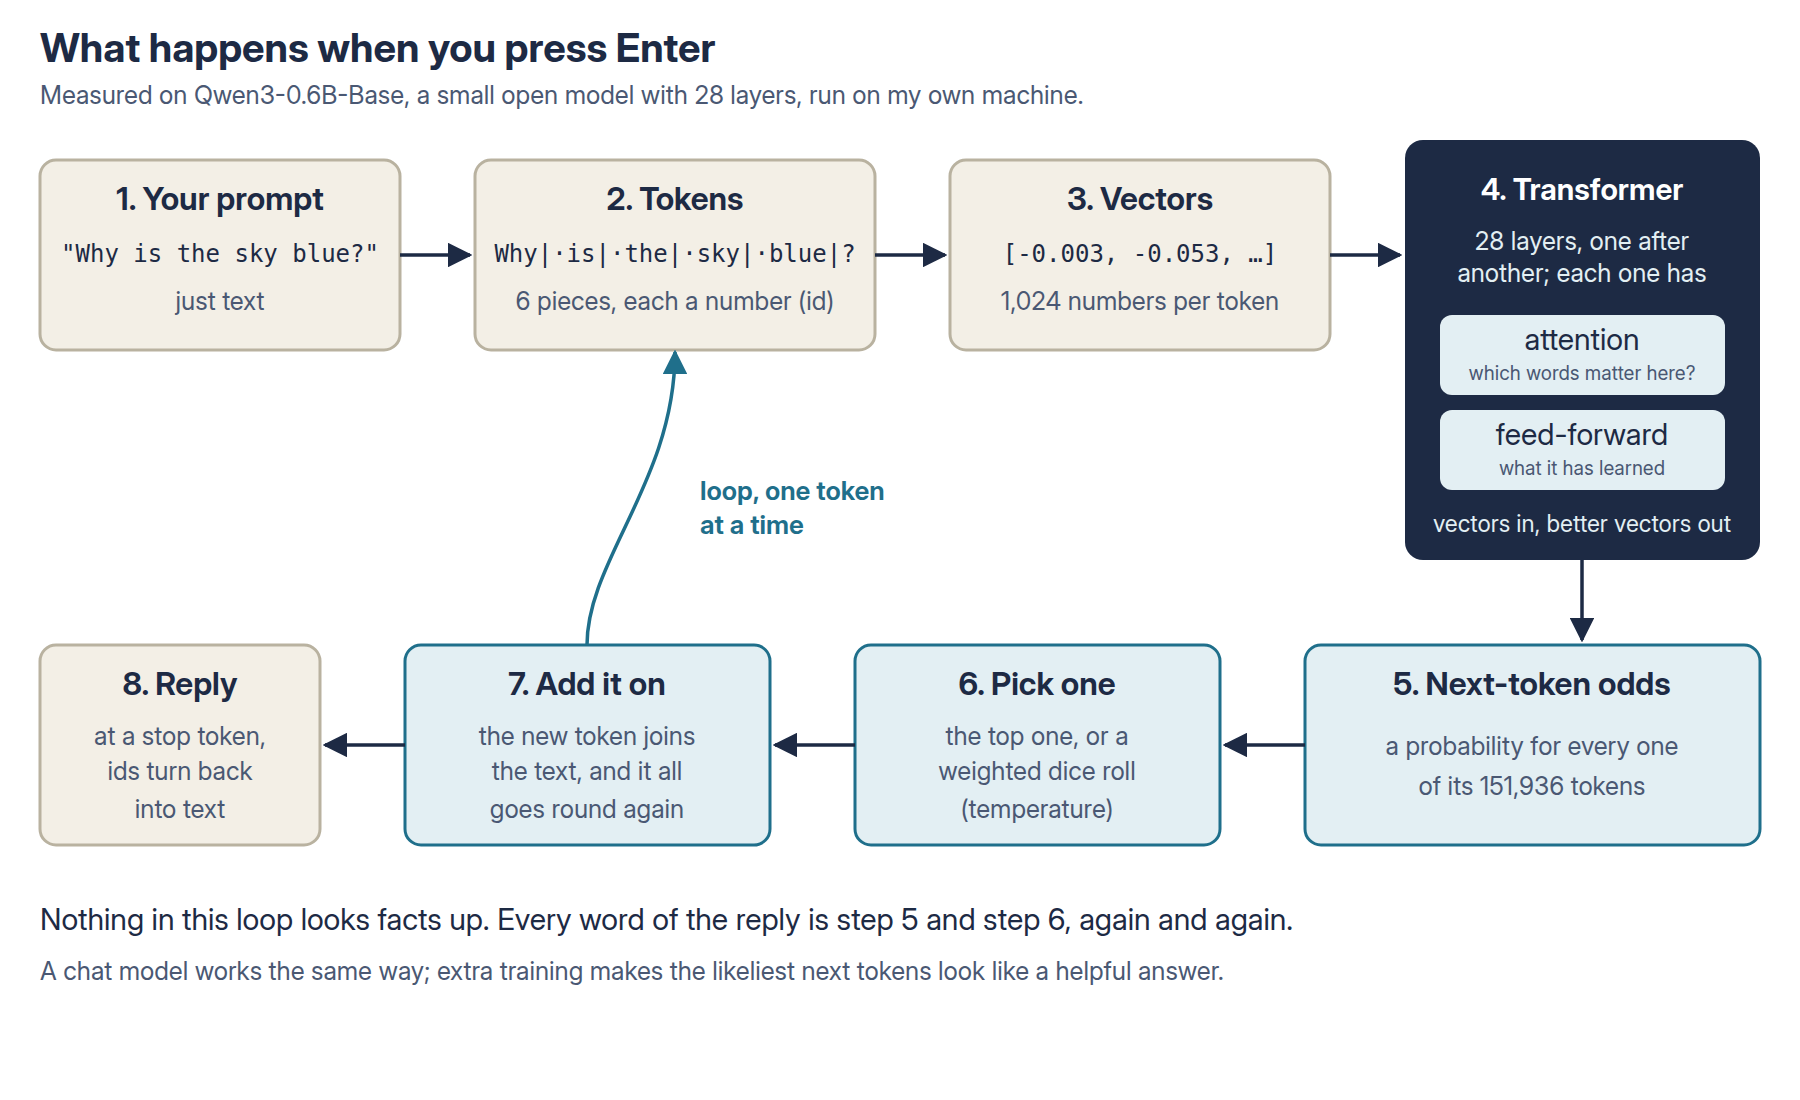
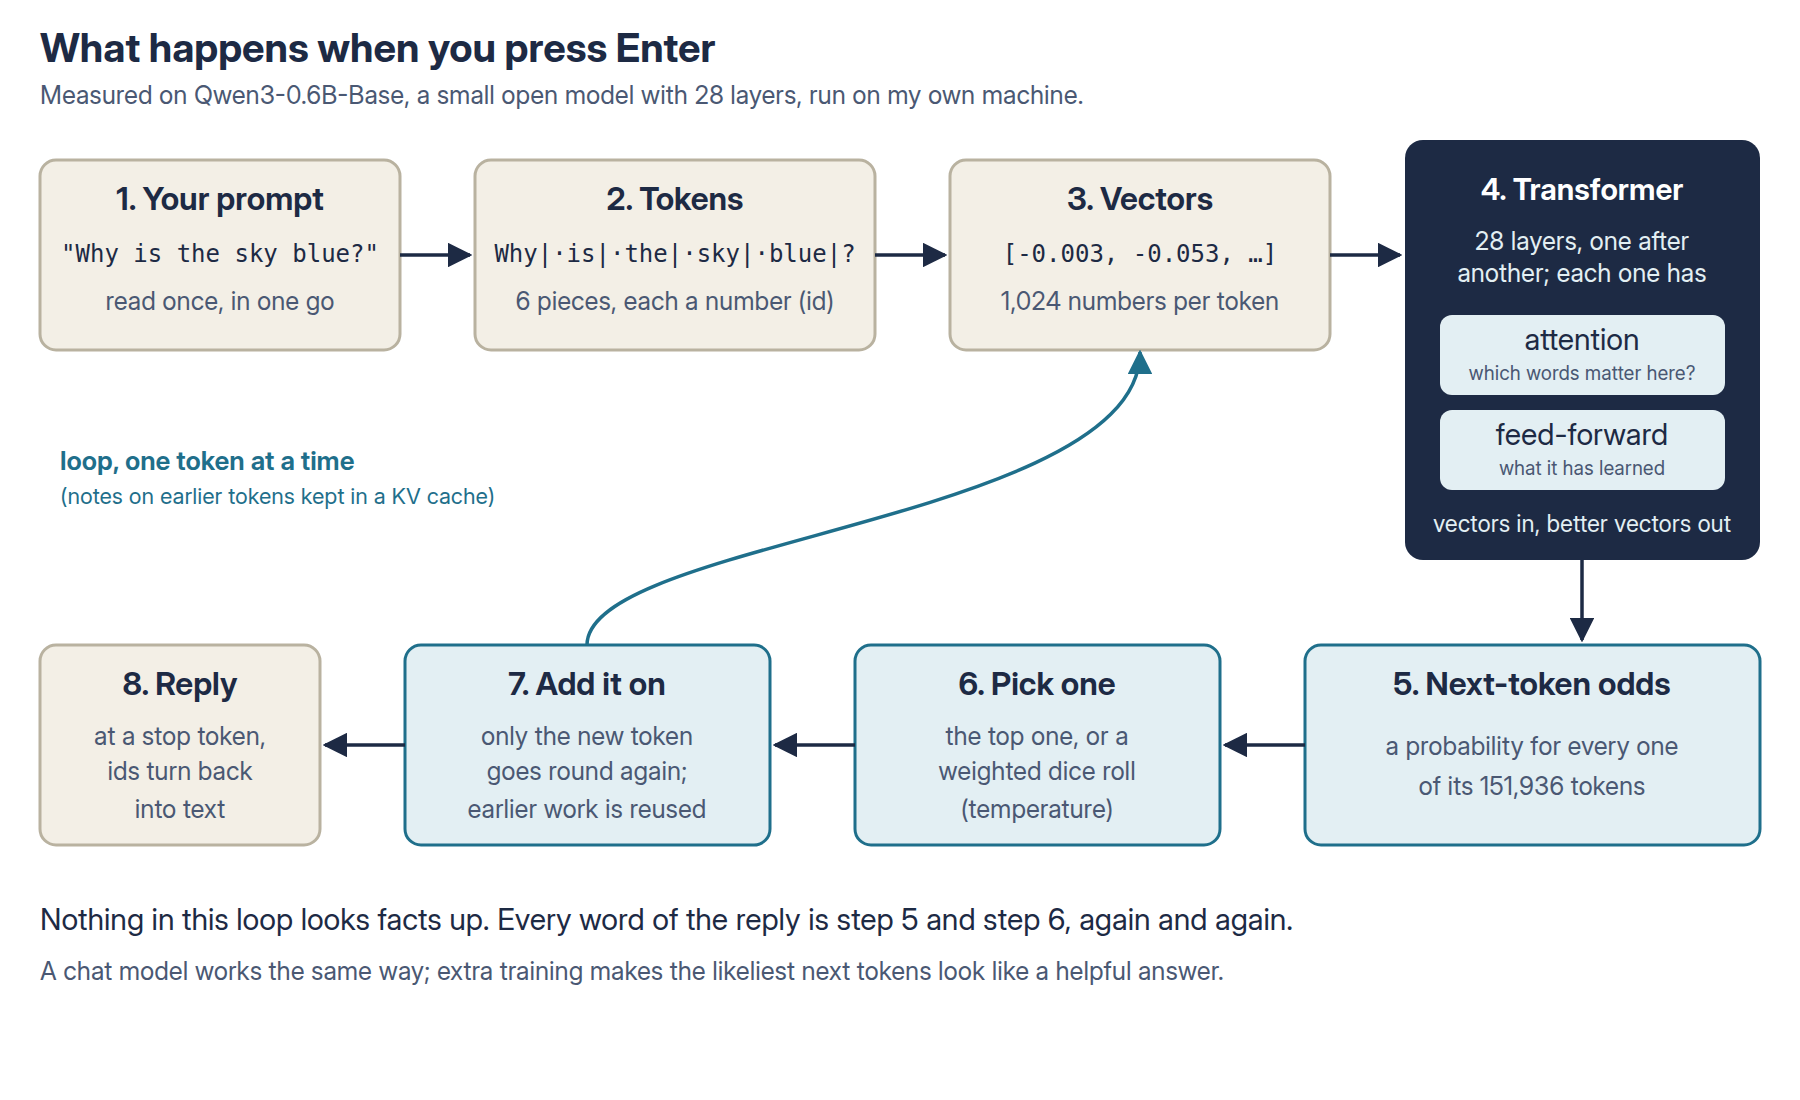
How GenAI works: redraw the loop in diagram 1 (only the new token goes round; KV cache; prompt read once) (#93)
Claude-Session: https://claude.ai/code/session_01N1e6Liuy2C2k6BxK7bT8z5

diff --git a/src/content/articles/how-genai-works.md b/src/content/articles/how-genai-works.md
@@ -19,7 +19,7 @@ The model is **Qwen3-0.6B-Base**. It's tiny by today's standards, about 600 mill
 Here's what happens between you pressing Enter and words appearing on the screen.
 
 <figure class="guide-figure">
-<img src="/guide-images/genai-1-prompt-journey.png" alt="Flow diagram. 1, your prompt: 'Why is the sky blue?', just text. 2, tokens: Why, is, the, sky, blue, question mark; 6 pieces, each a number. 3, vectors: 1,024 numbers per token. 4, transformer: 28 layers, one after another, each with attention (which words matter here?) and feed-forward (what it has learned); vectors in, better vectors out. 5, next-token odds: a probability for every one of its 151,936 tokens. 6, pick one: the top one or a weighted dice roll (temperature). 7, add it on: the new token joins the text and it all goes round again, looping back to step 2, one token at a time. 8, reply: at a stop token, ids turn back into text. Nothing in this loop looks facts up." width="1800" height="1100" loading="lazy" />
+<img src="/guide-images/genai-1-prompt-journey.png" alt="Flow diagram. 1, your prompt: 'Why is the sky blue?', read once, in one go. 2, tokens: Why, is, the, sky, blue, question mark; 6 pieces, each a number. 3, vectors: 1,024 numbers per token. 4, transformer: 28 layers, one after another, each with attention (which words matter here?) and feed-forward (what it has learned); vectors in, better vectors out. 5, next-token odds: a probability for every one of its 151,936 tokens. 6, pick one: the top one or a weighted dice roll (temperature). 7, add it on: only the new token goes round again, back to step 3, one token at a time; notes on earlier tokens are kept in a KV cache and reused. 8, reply: at a stop token, ids turn back into text. Nothing in this loop looks facts up." width="1800" height="1100" loading="lazy" />
 <figcaption>The loop goes round once for every token of the reply.</figcaption>
 </figure>
 
